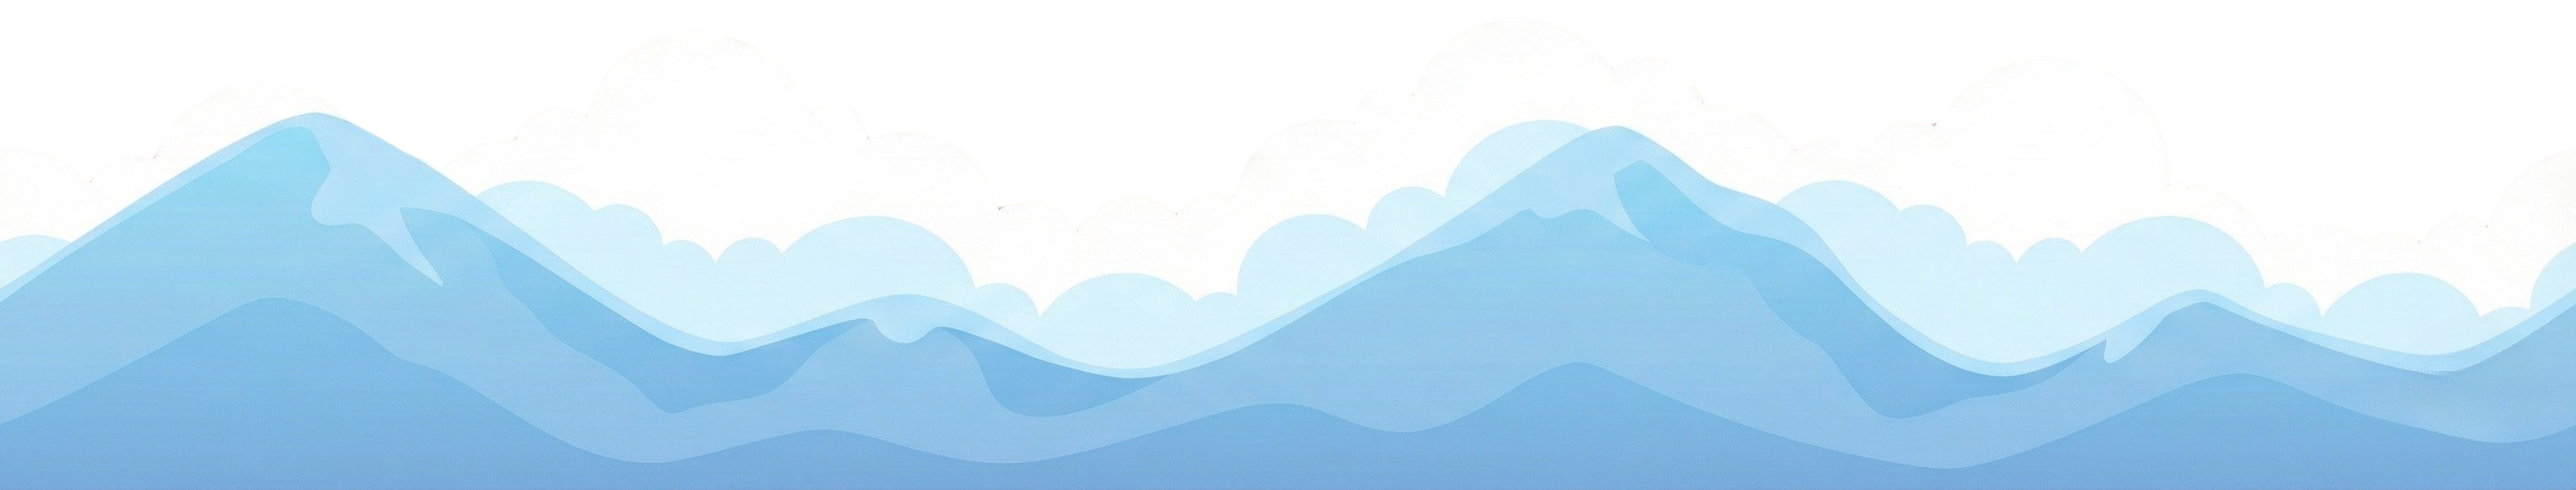
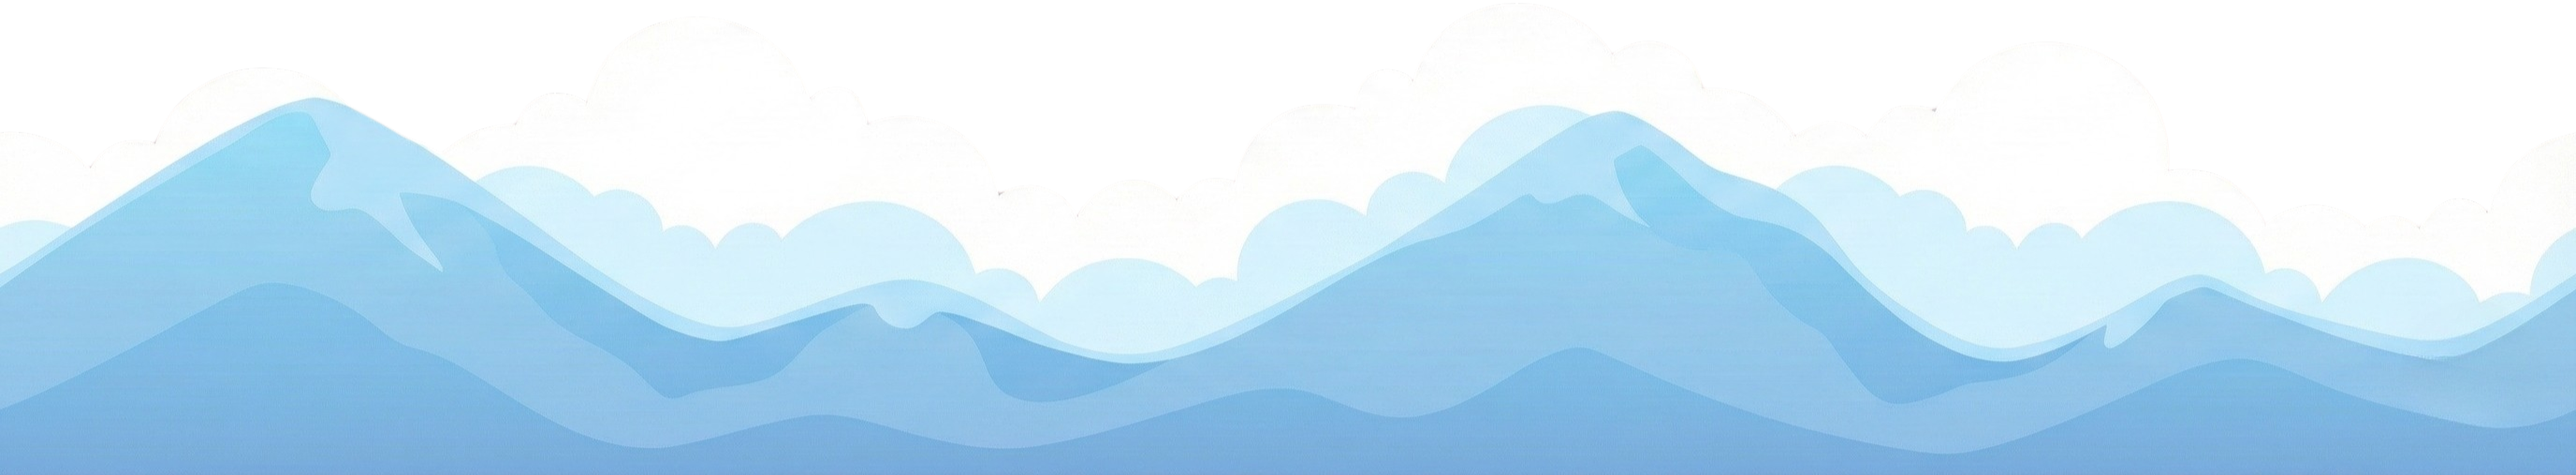
Fix visual seams with properly cropped background images
Root cause: Background images had large transparent areas above content,
creating visible seams when overlaid.

Solution:
1. Updated all background images (by user):
   - bg_mountains.png: Removed transparent space above mountains
   - bg_hills.png: Removed transparent space above hills/trees
   - bg_ground.png: Removed transparent space above grass/flowers
   - All images now tightly cropped to actual content

2. Code adjustments:
   - Reduced bleed from 20px (mobile) / 5px (desktop) back to 2px
   - With properly cropped images, minimal bleed is sufficient
   - Kept Math.ceil and Math.round for sub-pixel accuracy

Result: Visual seams eliminated on all devices!

🤖 Generated with [Claude Code](https://claude.com/claude-code)

diff --git a/src/game/GameScene.js b/src/game/GameScene.js
@@ -145,9 +145,8 @@ export default class GameScene extends Phaser.Scene {
     const targetHeight = Math.ceil(texHeight * responsiveScale);
 
     // Create a tileSprite that fills the FULL width, but has the scaled-down height
-    // Add extra bleed for mobile (20px) vs desktop (5px) to handle retina displays
-    const bleed = gameHeight < 600 ? 20 : 5;
-    const sprite = this.add.tileSprite(gameWidth / 2, 0, gameWidth, targetHeight + bleed, key);
+    // Small 2px bleed for seamless edges (images are now properly cropped)
+    const sprite = this.add.tileSprite(gameWidth / 2, 0, gameWidth, targetHeight + 2, key);
 
     if (anchorBottom) {
       sprite.setOrigin(0.5, 1); // Anchor bottom-center
